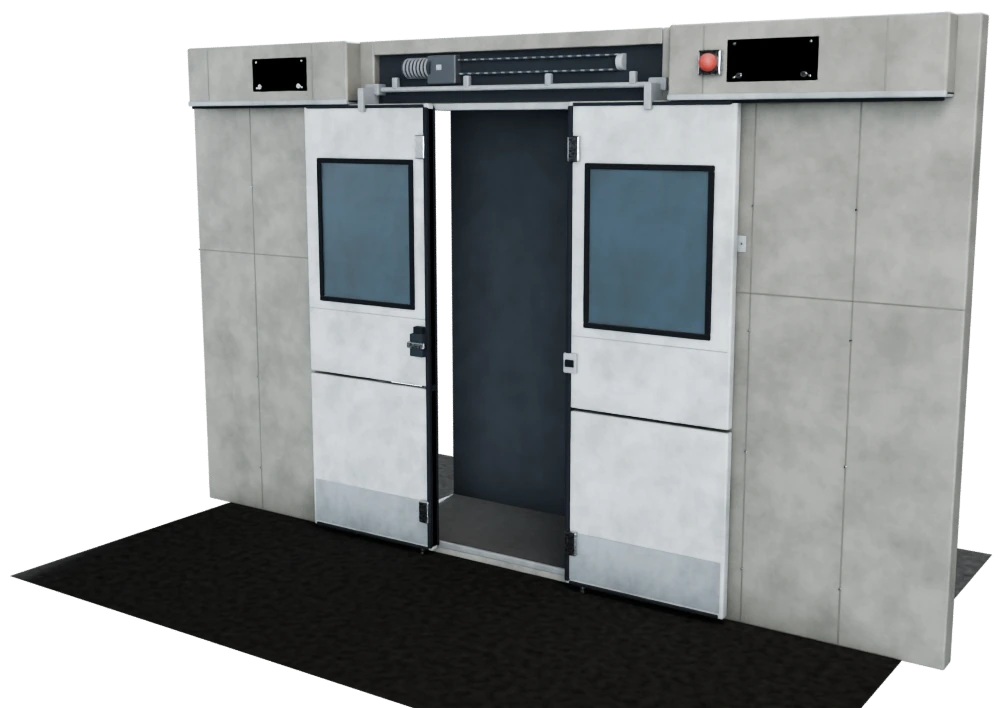
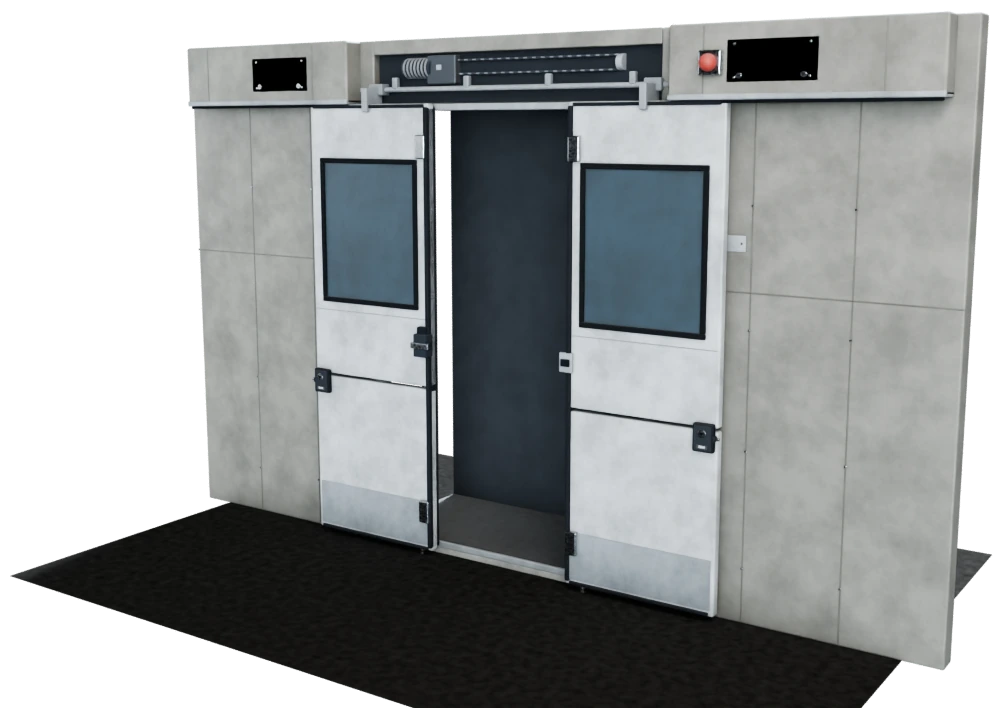
fix(devices): 端子排改 DIN 导轨型并标 +/−，车门补隔离锁（R13-1）
本人两处指出「不符合实物」：

## ① 万用表待测物全是"+"号，量不出电压

那六个"+"不是标记，是**顶面外凸的十字螺钉**：白块 + 大十字，缩到 860px 就是六枚
"+"。而真正的端子排上根本不刻极性符号——极性靠导线颜色与线号管表达。

改成真实 DIN 导轨端子排：35mm U 形导轨 + 六片灰端子卡在上面 + 两端端挡 +
前脸标记条；螺钉缩到 4.2mm 并**沉进压线腔**（深色方口里），顶面不再有大十字。
标记条只给 1、2 号插「+/−」极性片（真实做法就是单独插一片），其余是编号 3~6；
1 号接红导线标 +110V、2 号接蓝导线标 -110V，其余控制线深灰、PE 绿。
红表笔搭 1 号、黑表笔搭 2 号——**一正一负**，110.3V 才对得上。

## ② 车门"隔离锁"不符合实际

先查了三份资料，结构是**两半**，缺一不可：
- 《高速列车侧门锁闭安全性设计》：门上设隔离锁，手动操作带动插销伸出，
  与"固定于车体侧墙上的隔离锁挡"搭接，同时触发隔离开关；
- 成都地铁架修技术条款：「检查锁组成**在门扇上**安装牢固」、
  「隔离位时，隔离锁舌与**门框钢结构**搭接量不小于 2mm」、「三角锁芯无破损」、
  「非隔离位置时，锁舌与行程开关弹片间隙 2~3mm」；
- 专利 CN208073187U：门扇上两个隔离锁，位于主锁扣与辅助锁扣之间。

所以锁体在门扇、锁挡在门框。上一版的错不是"少个零件"，而是门扇上只有一个
**主锁**（中缝黑盒），既无三角锁芯也无门框锁挡，于是既不像主锁也不像隔离锁。

补齐：门扇外侧边 = 锁盒 + 镀铬三角锁芯（环形凹槽 + 等边三角孔，一角朝上）
+「隔离锁」铭牌 + 长插销 + 导向套；门框立柱 = C 形锁挡（上下两翼夹出楔口）
+ 到位微动开关 + 两根引线。

## 顺带修的两处

- **门缝**：原来两扇 0.70×2 = 门洞 1.4m，门扇把门框整个盖住，锁挡无处安放。
  改 0.66×2，单侧留 40mm（真实塞拉门要留塞拉摆出量与胶条压缩量）；
- **动作**：t=0 是隔离位（插销插进锁挡 8mm），加"解除隔离"段（t 0.002~0.045
  插销缩回）。不缩回就开门 = 锁着还能拉开，物理不成立。

## 验证

几何自检 12 条全过（锁盒/锁芯/插销/锁挡/微动开关无一悬空）；
坐标实测：插销 x[-0.680,-0.643] 末端进入锁挡 x[-0.706,-0.672] **8mm**，
y 0.728~0.742 落在楔口 0.716~0.748 内，z 0.078~0.092 与翼 0.063~0.089 重叠；
`pytest 574` / `vitest 383` / `vue-tsc` 干净 / 首屏 5.00·48.09 未变；
页面实截 0 报错、图片解码正常（1600×638 / 1003×708）。

diff --git a/apps/electro-assist/web/src/figures/devices/door.ts b/apps/electro-assist/web/src/figures/devices/door.ts
@@ -23,6 +23,7 @@ import {
   SRGBColorSpace,
   ShadowMaterial,
   SphereGeometry,
+  TorusGeometry,
 } from 'three'
 
 import type { DeviceRig } from './rig'
@@ -38,6 +39,7 @@ import {
   steelMaterial,
   withEdges,
 } from './rig'
+import { facePlate, isolationLabelTexture } from './print'
 import { phaseFor } from '../../lib/devphase'
 
 /** 示意尺寸（米）。改这里就能整体缩放，不散落在各处。 */
@@ -49,7 +51,10 @@ const DIM = {
   wallW: 3.7,
   wallH: 2.25,
   wallT: 0.09,
-  leafW: 0.7,
+  /* 2026-11-12：0.70 → 0.66。原来两扇合计正好等于门洞 1.4m，门扇把门框整个盖住，
+     既看不到门框、也没有地方装门框侧的隔离锁挡。真实塞拉门门扇要留出塞拉摆出
+     与胶条压缩量，与门框单侧有 30~40mm 缝。 */
+  leafW: 0.66,
   leafH: 1.95,
   leafT: 0.042,
   leafZ: 0.05,
@@ -230,6 +235,29 @@ export function buildDoor(): DeviceRig {
   parts.frame = frame
   root.add(frame)
 
+  /* ------------------------------------------------------------ 隔离锁挡 */
+  /* 锁挡固定在**门框钢结构**上（不是门扇上）。C 形开口朝中缝，
+     门扇上的长插销横向插进来——非隔离位时两者留 2~3mm。 */
+  const isoStopMat = steelMaterial(0x9a9d9f)
+  const switchMat = paintedMaterial(0x2a2e33)
+  for (const s of [-1, 1]) {
+    const sx = s * (DIM.openW / 2 - 0.011)
+    // 底板：贴门框正面
+    frame.add(roundedBox(0.034, 0.12, 0.008, isoStopMat, sx, 0.732, 0.062, 0.003))
+    // 上下两翼：夹住插销，形成楔口（口高 32mm，插销 13mm）
+    frame.add(
+      roundedBox(0.034, 0.044, 0.026, isoStopMat, sx, 0.77, 0.076, 0.003),
+      roundedBox(0.034, 0.044, 0.026, isoStopMat, sx, 0.694, 0.076, 0.003),
+    )
+    // 到位微动开关：隔离锁舌压下它才发隔离信号
+    frame.add(roundedBox(0.026, 0.02, 0.018, switchMat, sx, 0.648, 0.074, 0.003))
+    for (const off of [-0.006, 0.006]) {
+      const leadWire = new Mesh(new CylinderGeometry(0.0012, 0.0012, 0.11, 6), switchMat)
+      leadWire.position.set(sx + off, 0.585, 0.074)
+      frame.add(leadWire)
+    }
+  }
+
   // 门槛压条：一条镀铬槽，门下沿的导柱就插在这条槽里
   root.add(
     roundedBox(DIM.openW - 0.02, 0.006, 0.055, chromeMaterial(), 0, DIM.sill + 0.006, 0.018, 0.003),
@@ -355,6 +383,9 @@ export function buildDoor(): DeviceRig {
      teardown 的金属参数是给发动机、起落架那种裸金属机构的，不是给钣金外壳的。 */
   /** 门锁锁舌：解锁时缩回，锁闭时伸出、跨过中缝咬进对侧锁扣。 */
   const lockBolts: Mesh[] = []
+  /** 隔离锁的长插销：t=0 处于隔离位（插进门框锁挡），解除隔离时缩回。
+   *  不缩回就开门 = 「锁着还能拉开」，物理上不成立。 */
+  const isoBolts: Array<{ mesh: Mesh; dir: number }> = []
   const buildLeaf = (dir: -1 | 1) => {
     const leaf = new Group()
     const cx = (dir * DIM.leafW) / 2
@@ -442,8 +473,65 @@ export function buildDoor(): DeviceRig {
       leaf.add(roundedBox(0.04, 0.03, 0.01, paintedMaterial(0x1b1e22), -0.33, lockY, DIM.leafT / 2 + 0.016, 0.003))
     }
 
+    /* ---------------------------------------------------------- 隔离锁 */
+    /* **本体在门扇、锁挡在门框**——三份独立资料写死的结构：
+       《高速列车侧门锁闭安全性设计》："门上还设置有隔离锁……手动操作隔离锁可带动
+       隔离插销伸出，并与固定于车体侧墙上的隔离锁挡搭接，同时触发隔离开关"；
+       成都地铁架修技术条款："检查锁组成**在门扇上**安装牢固、无松动"、
+       "隔离位时，隔离锁舌与**门框钢结构**搭接量不小于 2mm"、"三角锁芯无破损、
+       无缺角、无变形"、"非隔离位置时，锁舌与行程开关弹片的间隙 2~3mm"；
+       专利 CN208073187U：门扇上两个隔离锁，位于主锁扣与辅助锁扣之间。
+
+       上一版的错不在"少了个零件"，而是：门扇上只有一个**主锁**（中缝那个黑盒），
+       既没有三角锁芯、也没有门框侧的锁挡——于是它既不像主锁也不像隔离锁，
+       被当成了"不符合实际的隔离锁"。
+       现在按实物补齐：门扇上 = 锁盒 + 三角锁芯 + "隔离锁"铭牌 + 长插销；
+       门框上 = C 形锁挡 + 到位微动开关（锁舌压下它才发隔离信号）。 */
+    const ISO_Y = 0.735
+    const isoBody = new Group()
+    isoBody.position.set(dir * 0.28, ISO_Y, DIM.leafT / 2)
+    leaf.add(isoBody)
+
+    // 锁盒：凸出门面 27mm，里面是曲柄与弹簧（真实锁盒就是这个厚度）
+    isoBody.add(roundedBox(0.085, 0.11, 0.026, paintedMaterial(0x24262a), 0, 0, 0.014, 0.006))
+    // 盖板：略小一圈，压出一道分缝
+    isoBody.add(roundedBox(0.072, 0.096, 0.004, paintedMaterial(0x33363b), 0, 0, 0.028, 0.004))
+    /* 三角锁芯：**识别隔离锁的关键特征**。圆盘里一个等边三角孔，配三角钥匙
+       （车站/检修用三角钥匙，不是普通方孔钥匙）。 */
+    const keyDisc = new Mesh(new CylinderGeometry(0.016, 0.016, 0.007, 22), chromeMaterial())
+    keyDisc.rotation.x = Math.PI / 2
+    keyDisc.position.set(0, 0.019, 0.0315)
+    isoBody.add(keyDisc)
+    // 锁芯外圈一道凹槽：真实锁芯是"盘 + 环槽 + 三角孔"，只有盘和孔会看成一颗铆钉
+    const keyGroove = new Mesh(new TorusGeometry(0.0125, 0.0011, 6, 22), paintedMaterial(0x2b2e33))
+    keyGroove.position.set(0, 0.019, 0.0352)
+    isoBody.add(keyGroove)
+    /* 三角孔：等边三角形，**一个角朝上**（三角钥匙的三个方位就是这个朝向）。
+       半径 8mm 是真实的三角钥匙芯规格，再大就不像标准件了。 */
+    const keyHole = new Mesh(
+      new CylinderGeometry(0.008, 0.008, 0.008, 3),
+      new MeshStandardMaterial({ color: 0x0b0d0f, metalness: 0.1, roughness: 0.9 }),
+    )
+    keyHole.rotation.x = Math.PI / 2
+    keyHole.rotation.z = 0
+    keyHole.position.set(0, 0.019, 0.0335)
+    isoBody.add(keyHole)
+    // 标识铭牌："隔离锁"——现场辨认它最直接的东西
+    const isoPlate = facePlate(0.044, 0.016, isolationLabelTexture(), { roughness: 0.55 })
+    isoPlate.position.set(0, -0.033, 0.0308)
+    isoBody.add(isoPlate)
+    // 长插销：朝门框方向伸出，非隔离位时端头与锁挡口留 2~3mm（条款原文）
+    const isoBolt = new Mesh(new CylinderGeometry(0.0065, 0.0065, 0.038, 12), chromeMaterial())
+    isoBolt.rotation.z = Math.PI / 2
+    isoBolt.position.set(dir * 0.0515, 0, 0.014)
+    isoBody.add(isoBolt)
+    isoBolts.push({ mesh: isoBolt, dir })
+    // 插销出口的导向套
+    isoBody.add(roundedBox(0.012, 0.022, 0.022, paintedMaterial(0x2b2f34), dir * 0.0435, 0, 0.014, 0.004))
+
     leaf.position.set(cx, 0, DIM.leafZ)
     return leaf
+
   }
 
   const leafL = buildLeaf(-1)
@@ -506,6 +594,12 @@ export function buildDoor(): DeviceRig {
   const setT = (t: number): void => {
     /* 段零：解锁。**这是开门的前置条件**——锁舌没缩回，门扇一点都不能动。
        以前从 t=0 就开始外移，等于「锁着也能开门」，现场不可能。 */
+    /* 段负一：**解除隔离**。t=0 是隔离位——长插销插在门框锁挡里（搭接 8mm），
+       此时门是被机械约束住的，一点都不能动。现场顺序是「反转三角钥匙使锁复位
+       （插销缩回）→ 再操作内外解锁装置」，所以这一段排在最前。 */
+    const unisolate = seg(t, 0.002, 0.045)
+    for (const iso of isoBolts) iso.mesh.position.x = iso.dir * (0.0515 - 0.008 * unisolate)
+
     const unlock = seg(t, 0.02, 0.08)
     for (const bolt of lockBolts) bolt.position.x = 0.365 - 0.065 * unlock
 

diff --git a/apps/electro-assist/web/src/figures/devices/multimeter.ts b/apps/electro-assist/web/src/figures/devices/multimeter.ts
@@ -36,11 +36,13 @@ import {
   chromeMaterial,
   disposeTree,
   floorMaterial,
+  paintedMaterial,
   roundedBox,
   rubberMaterial,
   seg,
+  steelMaterial,
 } from './rig'
-import { facePlate, lcdTexture, meterPanelTexture, setGlow, terminalLabelTexture } from './print'
+import { facePlate, ferruleTexture, lcdTexture, meterPanelTexture, setGlow, terminalLabelTexture } from './print'
 import { phaseFor } from '../../lib/devphase'
 
 /** 表体尺寸（m）：183 × 90 × 49mm 的通用工业表，取整到 180 × 88 × 46。 */
@@ -251,48 +253,109 @@ export function buildMultimeter(): DeviceRig {
   const jackWorld = [jackAt(-0.03), jackAt(-0.01), jackAt(0.01), jackAt(0.03)]
 
   /* ---------------------------------------------------------- 端子排 */
+  /* 真实件是 **DIN 导轨端子排**：灰塑料端子片一片片卡在 35mm 导轨上，两端端挡
+     限位，前脸一条标记条，导线从**后面**进线、靠端子处套线号管。
+
+     2026-11-12（本人指出"每个端子都标 +，全是正就没法测电压"）：
+     上一版是「一整块灰塑料底板 + 六个白块、每块顶面一个外凸的十字螺钉」——
+     白底 + 大十字，缩到 860px 就是六枚"+"。端子排上根本不会有这种标记：
+     极性靠**导线颜色 + 线号管**表达，端子上只有编号。
+     所以这里：螺钉缩到 4.2mm 并**沉进压线腔**（深色方口里），
+     1 号端接红导线标 +110V、2 号端接蓝导线标 -110V，其余控制线灰。 */
   const strip = new Group()
   strip.position.copy(STRIP)
   root.add(strip)
   parts.terminals = strip
 
-  strip.add(roundedBox(0.152, 0.05, 0.055, new MeshStandardMaterial({
-    color: 0x8b8f94,
-    metalness: 0.15,
-    roughness: 0.62,
-  }), 0, 0.006, 0, 0.004))
+  /** 35mm 导轨：U 形断面、两翼外翻——端子就卡在这两翼上。 */
+  const RAIL_Y = -0.014
+  const TERM_Y = 0.0205
+  const TERM_H = 0.058
+  const railMat = steelMaterial(0xbdc0c4)
+  strip.add(roundedBox(0.158, 0.009, 0.035, railMat, 0, RAIL_Y, 0, 0.002))
+  strip.add(
+    roundedBox(0.158, 0.005, 0.013, railMat, 0, RAIL_Y + 0.0068, -0.0112, 0.001),
+    roundedBox(0.158, 0.005, 0.013, railMat, 0, RAIL_Y + 0.0068, 0.0112, 0.001),
+  )
 
+  // 端挡：两端各一片，压住端子排不许横向窜动（真实端子排必配）
+  const endStopMat = paintedMaterial(0x8a9095)
+  for (const sx of [-1, 1]) {
+    const ex = (sx * (TERM_W * TERM_COUNT)) / 2 + sx * 0.005
+    strip.add(roundedBox(0.008, 0.07, 0.05, endStopMat, ex, TERM_Y, 0, 0.002))
+    const cap = new Mesh(new CylinderGeometry(0.0032, 0.0032, 0.004, 10), chromeMaterial())
+    cap.position.set(ex, TERM_Y + 0.014, 0.026)
+    cap.rotation.x = Math.PI / 2
+    strip.add(cap)
+  }
+
+  const termMat = new MeshStandardMaterial({ color: 0x8d9296, metalness: 0.08, roughness: 0.66 })
+  const cavityMat = new MeshStandardMaterial({ color: 0x24272b, metalness: 0.15, roughness: 0.72 })
   const screwTops: Vector3[] = []
   for (let i = 0; i < TERM_COUNT; i += 1) {
     const x = (i - (TERM_COUNT - 1) / 2) * TERM_W
-    strip.add(roundedBox(TERM_W - 0.002, 0.062, 0.058, new MeshStandardMaterial({
-      color: i % 2 === 0 ? 0xd8d5cc : 0xc9c6bd,
-      metalness: 0.05,
-      roughness: 0.68,
-    }), x, 0.008, 0, 0.003))
-
-    const screw = new Mesh(new CylinderGeometry(0.0068, 0.0068, 0.005, 16), chromeMaterial())
-    screw.position.set(x, 0.041, 0)
+    const capY = TERM_Y + TERM_H / 2
+    // 端子片：相邻两片之间留 0.8mm 缝（是一片片插起来的，不是整块）
+    strip.add(roundedBox(TERM_W - 0.0008, TERM_H, 0.048, termMat, x, TERM_Y, 0, 0.0022))
+    /* 压线腔：顶面下沉的深色方口。螺钉沉在里面、只露一个小十字槽，
+       不再是"顶面凸起一个大十字"——那是上一版被读成"+"的全部原因。 */
+    strip.add(roundedBox(0.0155, 0.007, 0.019, cavityMat, x, capY - 0.0035, 0, 0.0008))
+    const screw = new Mesh(new CylinderGeometry(0.0042, 0.0042, 0.004, 14), chromeMaterial())
+    screw.position.set(x, capY - 0.0055, 0)
     strip.add(screw)
-
-    // 十字槽：两道细条，比画个圆更像螺钉
     for (const rot of [0, Math.PI / 2]) {
-      const slot = roundedBox(0.0092, 0.0012, 0.0008, new MeshStandardMaterial({
-        color: 0x3a3d42,
-        metalness: 0.6,
-        roughness: 0.5,
-      }), 0, 0, 0, 0.0004)
-      slot.position.set(x, 0.0436, 0)
+      const slot = roundedBox(0.006, 0.0009, 0.0007, cavityMat, x, capY - 0.0034, 0, 0.0003)
       slot.rotation.y = rot
       strip.add(slot)
     }
-    screwTops.push(new Vector3(x, 0.0436, 0))
+    screwTops.push(new Vector3(x, capY - 0.0034, 0))
   }
 
-  // 编号条：贴在端子排前脸，正对镜头
-  const label = facePlate(0.148, 0.0246, terminalLabelTexture(TERM_COUNT), { roughness: 0.6 })
-  label.position.set(0, -0.013, 0.0302)
+  // 编号条：卡在端子前脸的标记条槽里
+  const label = facePlate(TERM_W * TERM_COUNT, 0.024, terminalLabelTexture(TERM_COUNT, { 0: '+', 1: '\u2212' }), {
+    roughness: 0.62,
+  })
+  label.position.set(0, TERM_Y - 0.015, 0.0244)
   strip.add(label)
+
+  /* 导线：**从端子后面进线**。正极红、负极蓝、其余控制线灰——
+     现场认正负靠线色与线号管，端子排上不刻符号。 */
+  const WIRES: Array<{ color: number; ferrule: string }> = [
+    { color: 0xa8262c, ferrule: '+110V' },
+    { color: 0x1d4b86, ferrule: '-110V' },
+    { color: 0x2a2e34, ferrule: 'X1-3' },
+    { color: 0x2a2e34, ferrule: 'X1-4' },
+    { color: 0x2a2e34, ferrule: 'X1-5' },
+    { color: 0x2d6b3a, ferrule: 'PE' },
+  ]
+  const DECK_Y = -0.0155
+  WIRES.forEach((wire, i) => {
+    const x = (i - (TERM_COUNT - 1) / 2) * TERM_W
+    const wireMat = new MeshStandardMaterial({ color: wire.color, metalness: 0.04, roughness: 0.78 })
+    const curve = new CatmullRomCurve3(
+      [
+        new Vector3(x, TERM_Y + 0.004, -0.028),
+        new Vector3(x - 0.012 - i * 0.003, TERM_Y - 0.01, -0.064),
+        new Vector3(x - 0.03 - i * 0.006, DECK_Y + 0.004, -0.092),
+        new Vector3(x - 0.05 - i * 0.008, DECK_Y + 0.004, -0.16),
+      ],
+      false,
+      'catmullrom',
+      0.34,
+    )
+    const run = new Mesh(new TubeGeometry(curve, 30, 0.0026, 7, false), wireMat)
+    run.castShadow = true
+    strip.add(run)
+
+    // 线号管：套在端子出口那一小段上（现场就是这么套的）
+    const fer = new Mesh(
+      new CylinderGeometry(0.0035, 0.0035, 0.017, 12),
+      new MeshStandardMaterial({ map: ferruleTexture(wire.ferrule), roughness: 0.74 }),
+    )
+    fer.position.set(x - 0.008 - i * 0.002, TERM_Y - 0.001, -0.05)
+    fer.rotation.x = Math.PI / 2
+    strip.add(fer)
+  })
 
   /* 表笔落点用世界坐标：端子排的局部坐标要乘上它自己的矩阵，
      否则六个落点全挤在原点附近。 */

diff --git a/apps/electro-assist/web/src/figures/devices/print.ts b/apps/electro-assist/web/src/figures/devices/print.ts
@@ -276,18 +276,63 @@ export function torqueScaleTexture(): Texture {
   })
 }
 
-/** 端子排上的编号条。6 位，字距按端子宽度排，与螺栓位置对齐。 */
-export function terminalLabelTexture(count: number): Texture {
+/** 端子排上的编号条。
+ *
+ *  `marks` 把个别端子标成极性——真实端子排上只有电源进线端会另插一小片
+ *  「+/−」标记条，其余全是编号。**不能整排都标**：全标"+"就没法表达电位差，
+ *  表笔搭哪两个端子都成了"量同一极"。 */
+export function terminalLabelTexture(count: number, marks: Record<number, string> = {}): Texture {
   return canvasTexture(64 * count, 64, (ctx, w, h) => {
     ctx.fillStyle = '#e9e6dc'
     ctx.fillRect(0, 0, w, h)
-    ctx.fillStyle = '#2b2d31'
-    ctx.font = 'bold 34px ui-monospace, monospace'
+    for (let i = 0; i < count; i += 1) {
+      const marked = marks[i] !== undefined
+      const text = marked ? marks[i] : String(i + 1)
+      ctx.fillStyle = marked ? '#14171b' : '#2b2d31'
+      ctx.font = `bold ${marked ? 46 : 34}px ui-monospace, monospace`
+      ctx.textAlign = 'center'
+      ctx.textBaseline = 'middle'
+      ctx.fillText(text, 64 * i + 32, h / 2 + 2)
+      if (marked) {
+        // 极性标记是单独一片插进去的，压一圈深色边
+        ctx.strokeStyle = '#6f757b'
+        ctx.lineWidth = 3
+        ctx.strokeRect(64 * i + 5, 5, 54, h - 10)
+      }
+    }
+  })
+}
+
+/** 线号管：套在导线上的白色套管，环向热转印线号。
+ *
+ *  **为什么要重复 4 份**：Cylinder 的 u 沿整个圆周，只印一份的话转到背面就看不见了，
+ *  而这一类图是静态机位渲出来的，字落在背面等于没有。印 4 份，任意角度都有一份正对。
+ *  真实线号管是"白 PVC 管 + 黑色热转印"，字高约管径的 1.2 倍。 */
+export function ferruleTexture(text: string): Texture {
+  const W = 128
+  return canvasTexture(W * 4, 64, (ctx, w, h) => {
+    ctx.fillStyle = '#f4f2ec'
+    ctx.fillRect(0, 0, w, h)
+    ctx.fillStyle = '#1f2226'
+    // 字宽按份宽自适应：`-110V` 比 `PE` 长得多，固定字号会把长的挤成两行
+    const size = text.length > 3 ? 26 : 30
+    ctx.font = `bold ${size}px ui-monospace, monospace`
     ctx.textAlign = 'center'
     ctx.textBaseline = 'middle'
-    for (let i = 0; i < count; i += 1) {
-      ctx.fillText(String(i + 1), (64 * i) + 32, h / 2 + 2)
-    }
+    for (let i = 0; i < 4; i += 1) ctx.fillText(text, W * i + W / 2, h / 2 + 1)
+  })
+}
+
+/** 隔离锁的标识铭牌：真实锁盒上贴"隔离/解锁"字样，是现场辨认它最直接的东西。 */
+export function isolationLabelTexture(): Texture {
+  return canvasTexture(192, 64, (ctx, w, h) => {
+    ctx.fillStyle = '#2f3338'
+    ctx.fillRect(0, 0, w, h)
+    ctx.fillStyle = '#e8e4d8'
+    ctx.font = 'bold 38px system-ui, sans-serif'
+    ctx.textAlign = 'center'
+    ctx.textBaseline = 'middle'
+    ctx.fillText('隔离锁', w / 2, h / 2 + 2)
   })
 }
 
